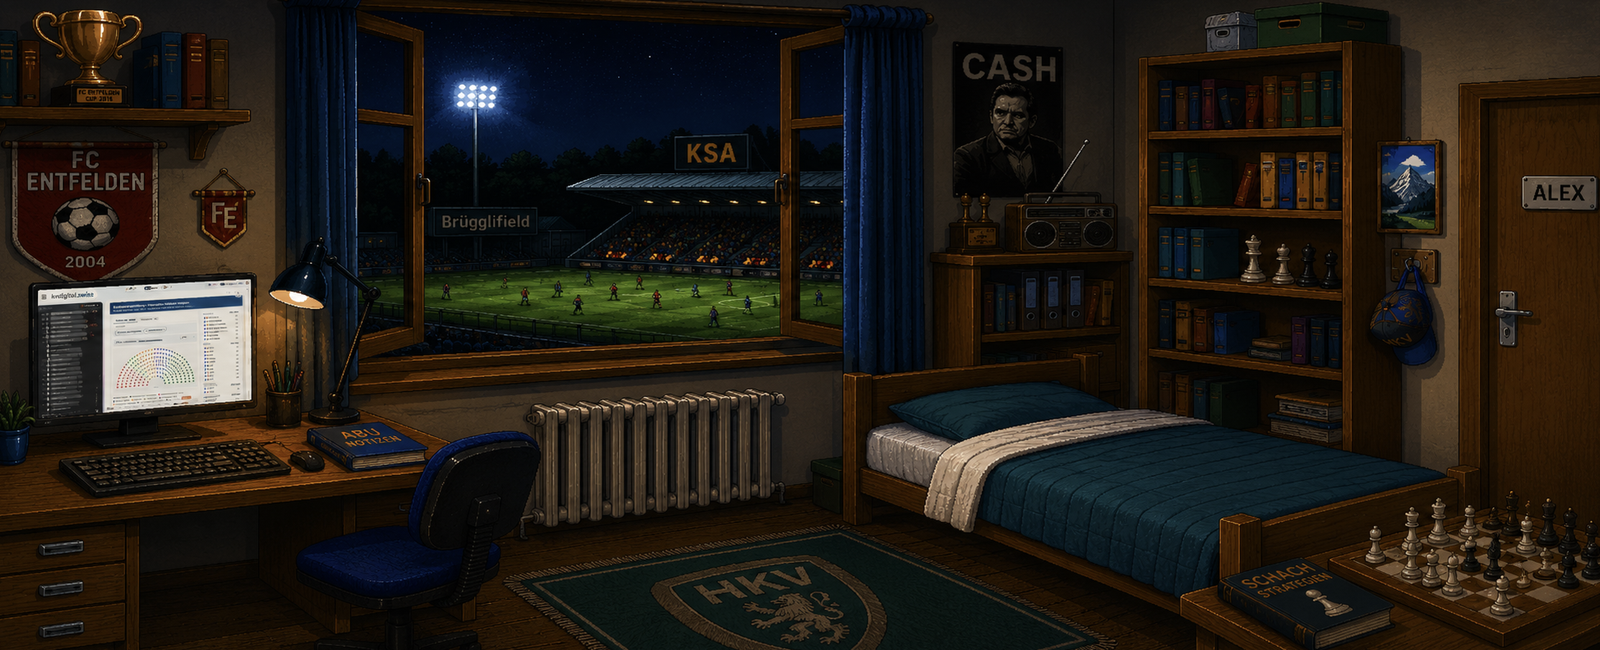
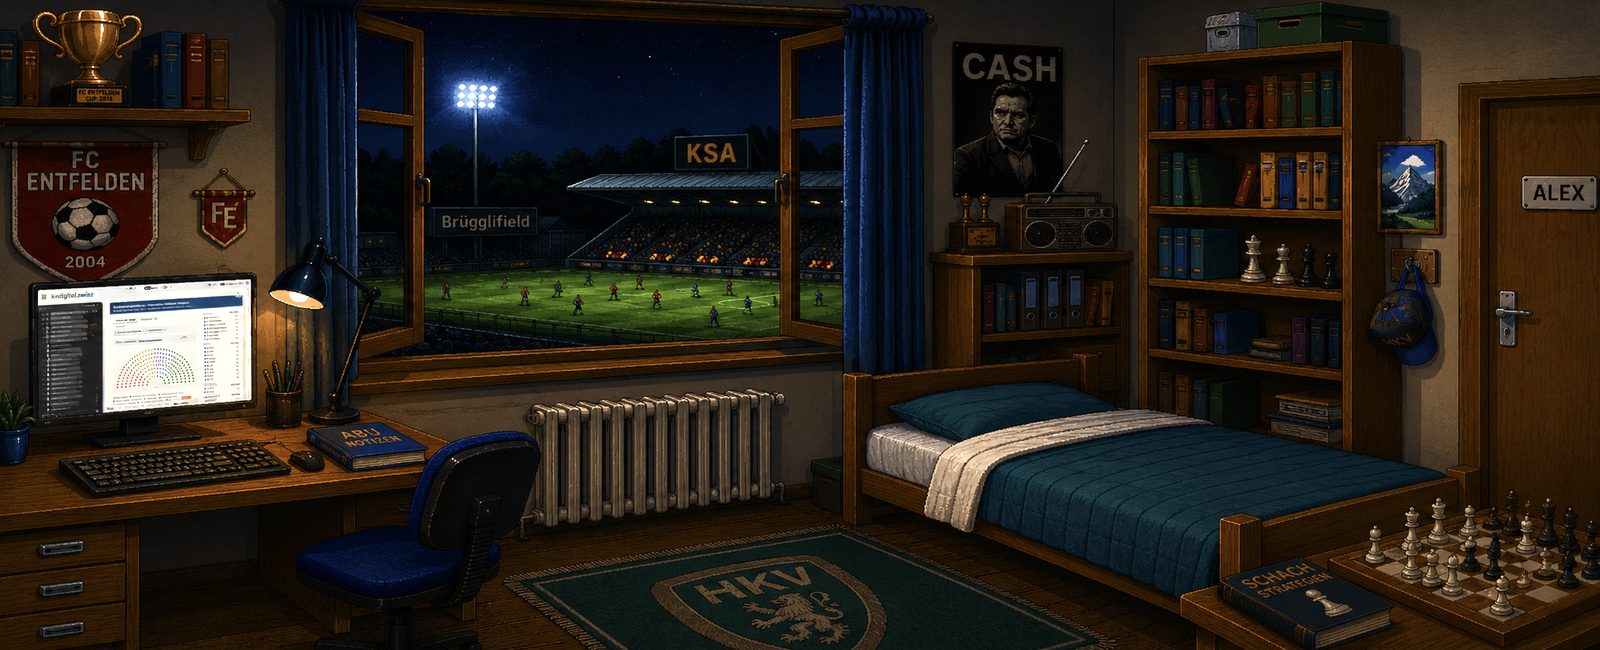
Zimmer-Bilder nach Weiche 20% aufgehellt (v90)

diff --git a/kaufvertrag_demo.html b/kaufvertrag_demo.html
@@ -966,7 +966,7 @@ ende: pxSzene('#000010', (R,D)=>{
    Liegen im Repo PNGs mit diesen Namen, werden sie automatisch
    statt der Pixel-Programme geladen. Fehlen sie: Pixel-Fallback.
    ===================================================== */
-const BILD_VERSION = '89';
+const BILD_VERSION = '90';
 function vurl(u){ return u + '?v=' + BILD_VERSION; }
 const SZENEN_BILDER = {
   titel:'kaufvertrag_titel.png',

diff --git a/kaufvertrag_fd642d69.html b/kaufvertrag_fd642d69.html
@@ -967,7 +967,7 @@ ende: pxSzene('#000010', (R,D)=>{
    Liegen im Repo PNGs mit diesen Namen, werden sie automatisch
    statt der Pixel-Programme geladen. Fehlen sie: Pixel-Fallback.
    ===================================================== */
-const BILD_VERSION = '89';
+const BILD_VERSION = '90';
 function vurl(u){ return u + '?v=' + BILD_VERSION; }
 const SZENEN_BILDER = {
   titel:'kaufvertrag_titel.png',
